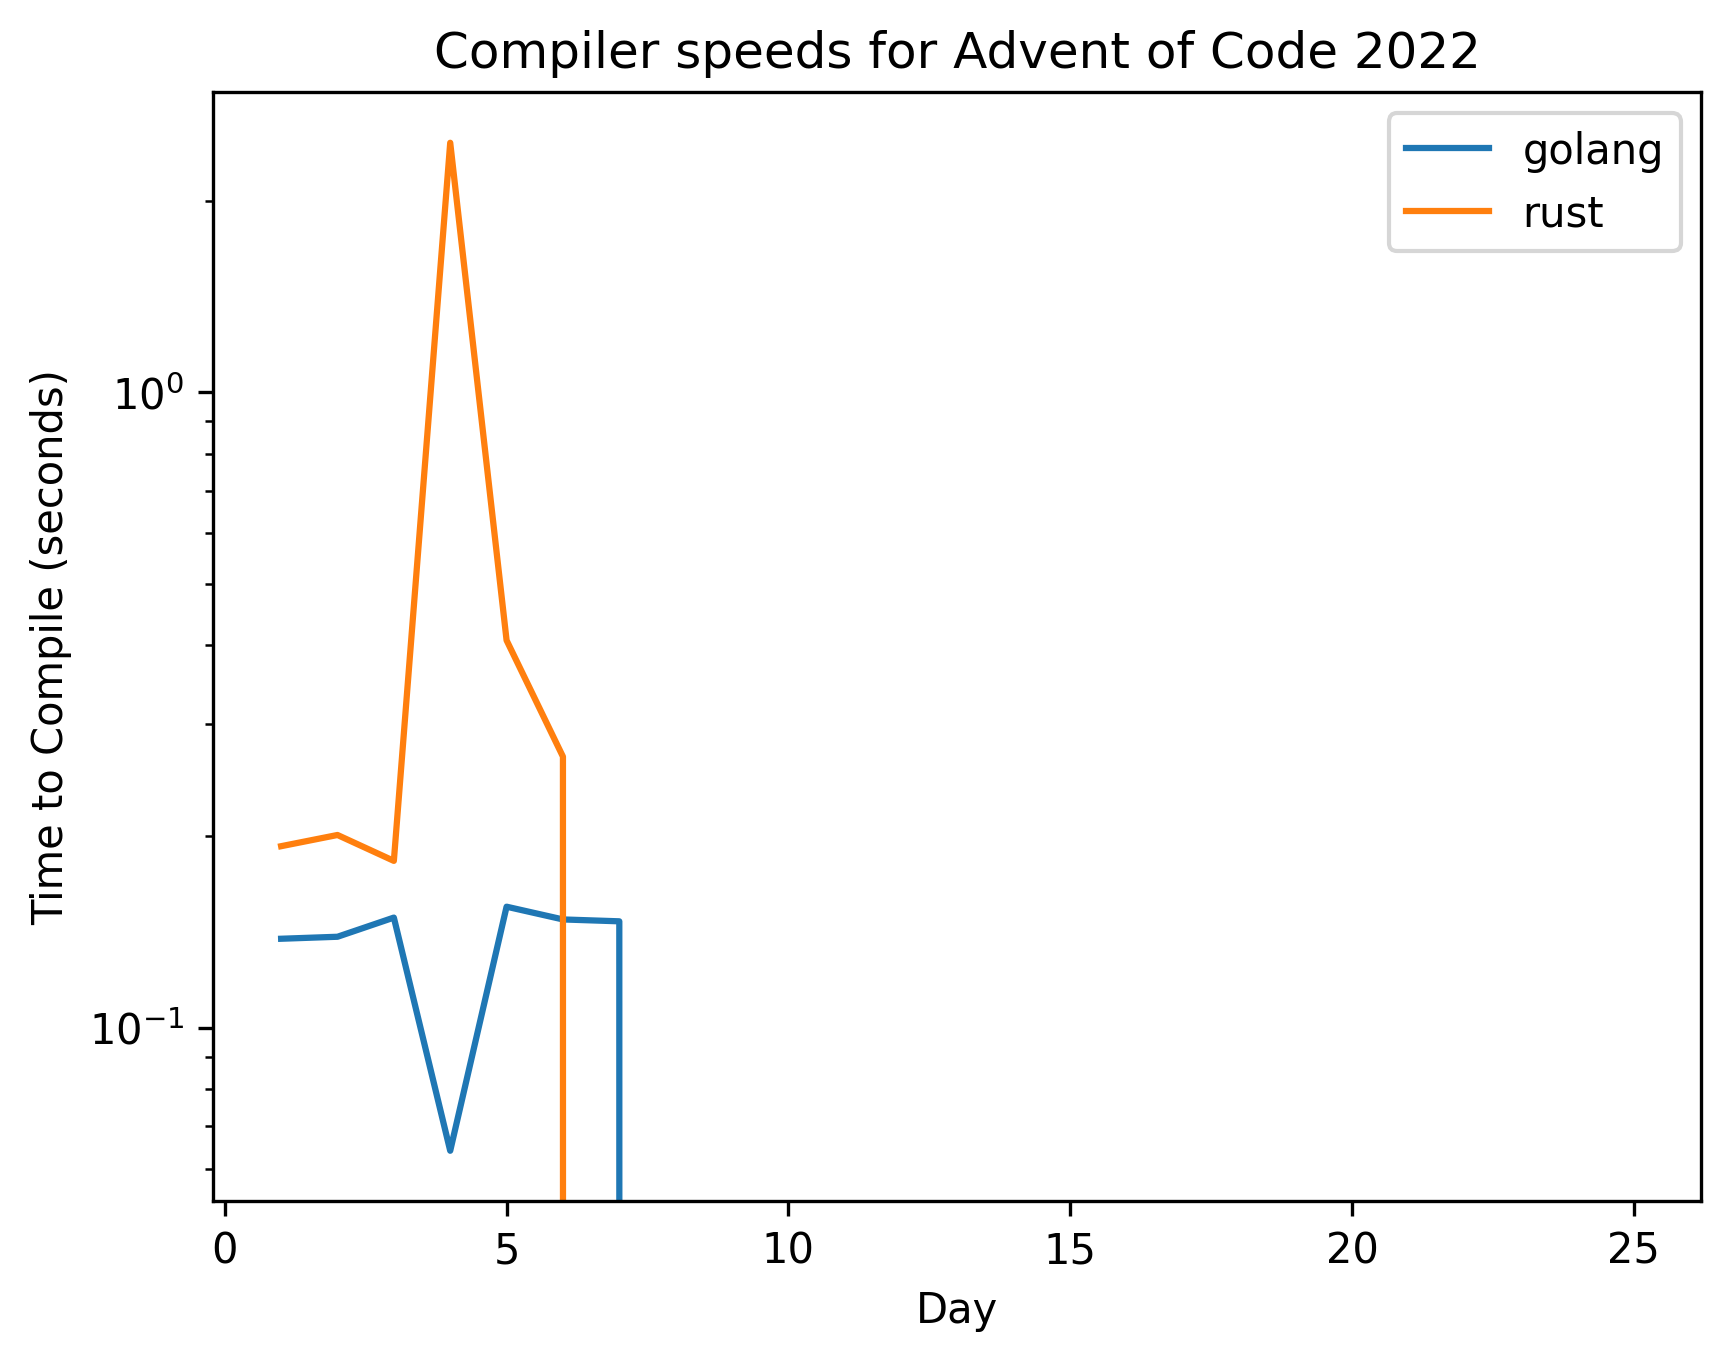
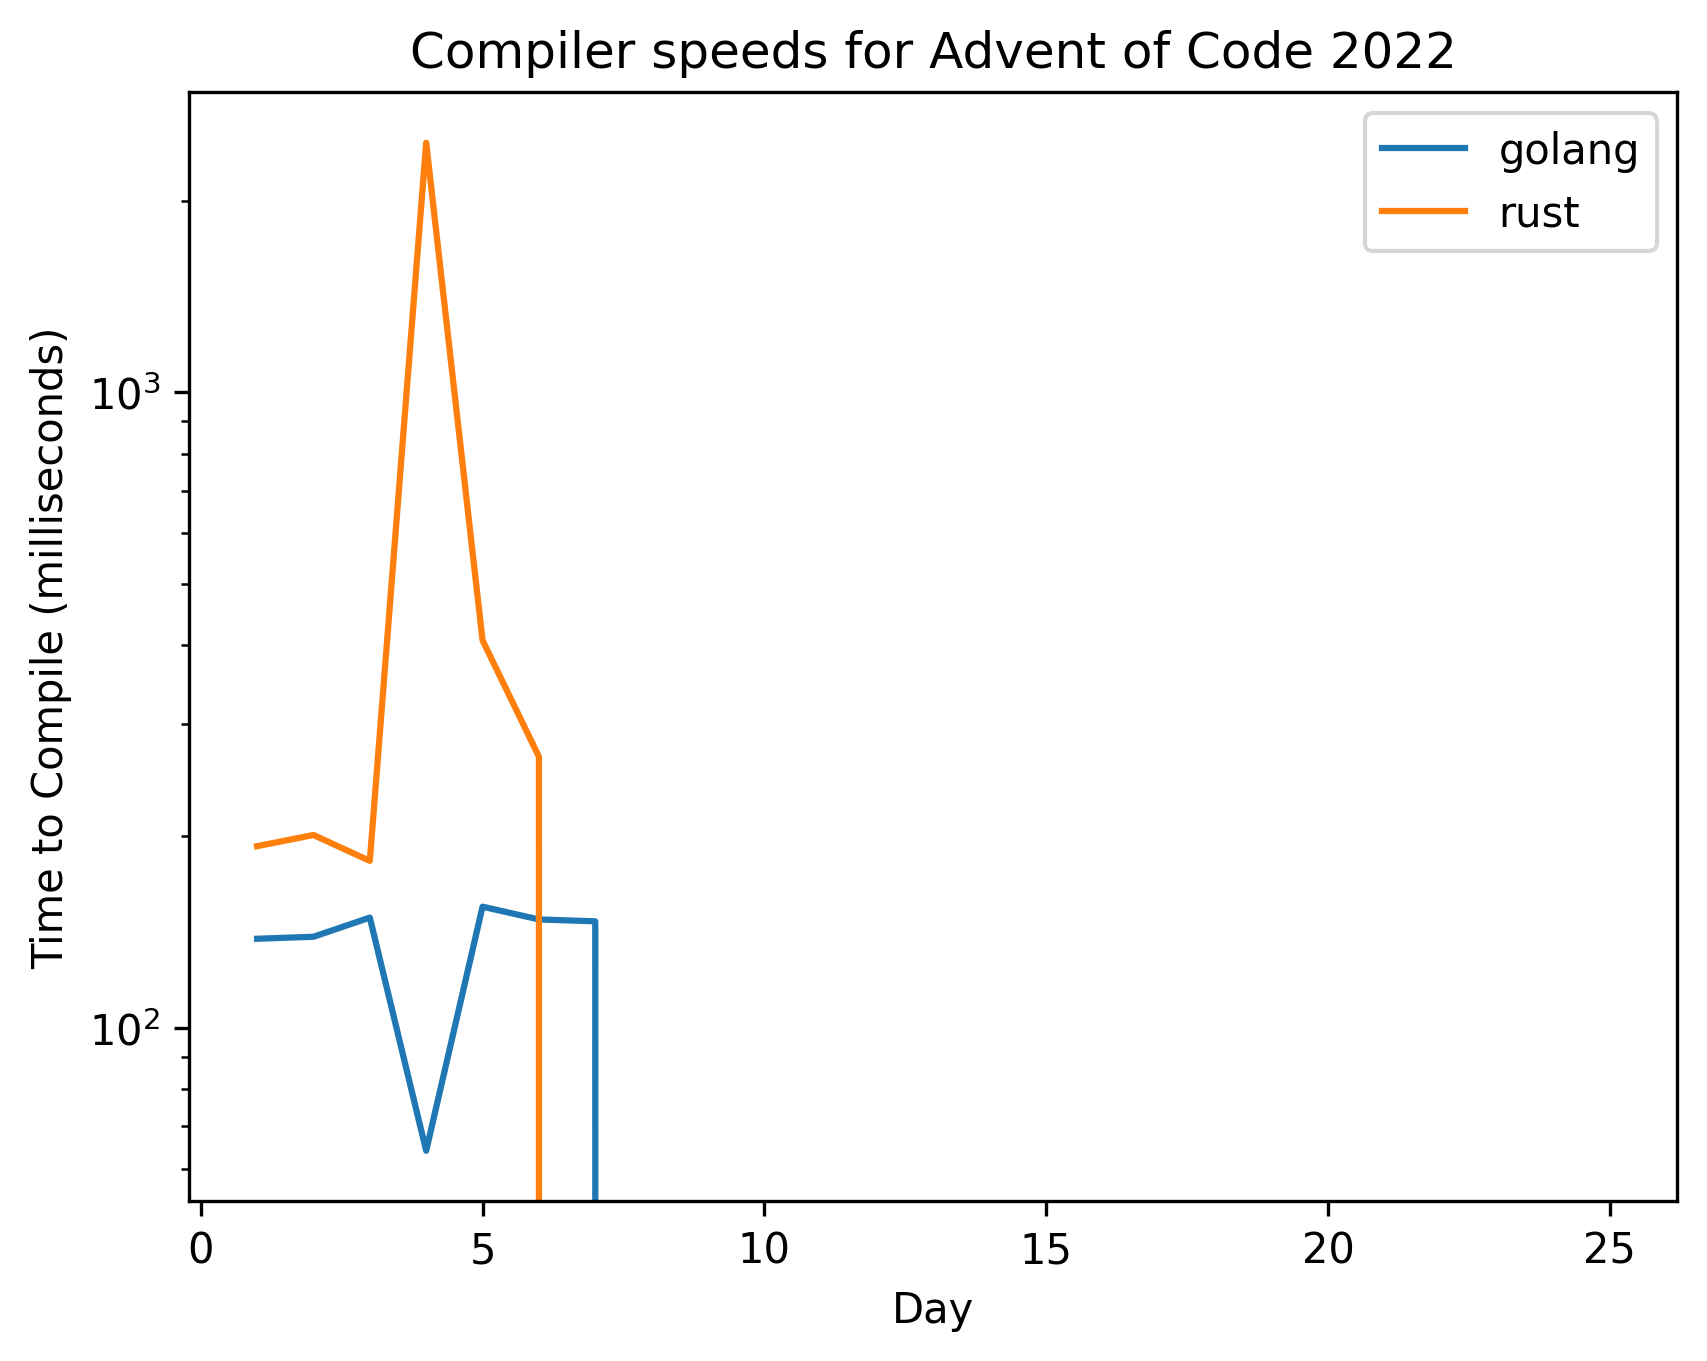
py day 14 done

diff --git a/2022/python/14.py b/2022/python/14.py
@@ -1,0 +1,100 @@
+# sand initiates at 500,0
+# one sand falls at a time, and 2nd sand doesn't start falling until the previous has hit it's resting place
+# if blocked, it tries down+left. If that's blocked, it tries down+right. It continues to move until it no longer can
+# using the puzzle input, how many units fall before the flow becomes an infinite loop?
+
+import numpy as np
+
+input = open("../data/14.txt").read().split("\n")
+caveMap = np.zeros((200, 800), dtype=int)
+
+# fill the caveMap in with the stone from the puzzle input
+for line in input:
+  commands = line.split(" -> ")
+  lastPos = commands[0].split(",")
+  for c in commands[1:]:
+    x1, y1 = int(lastPos[0]), int(lastPos[1])
+    x2, y2 = int(c.split(",")[0]), int(c.split(",")[1])
+    # if true, then we're drawing along on the x axis
+    if abs(x1-x2) != 0:
+      x1, x2 = min(x1, x2), max(x1, x2)
+      caveMap[y1, x1:x2+1] = 1
+    else:
+      y1, y2 = min(y1, y2), max(y1, y2)
+      caveMap[y1:y2+1, x1] = 1
+    lastPos = c.split(",")
+
+# find the highest y corrdinate that has a value of 1
+ceiling = max(np.where(caveMap == 1)[0])+2
+# arbitrary number. If your answer equals this, increase the range until the answer stops changing
+for i in range(810):
+  currPos = [1, 500]
+  # yes I know this isn't best practice, but the numpy array has a limited size and there's a guaranteed break point
+  while True:
+
+    # if not already blocked, move down as far as possible
+    if caveMap[currPos[0]+1, currPos[1]] == 0 and currPos[0] < ceiling:
+      # Extremely inefficient, TODO speed this up
+      currPos[0] += 1
+
+    # try to move down+left
+    elif caveMap[currPos[0]+1, currPos[1]-1] == 0 and currPos[0] < ceiling:
+      currPos[0], currPos[1] = currPos[0]+1, currPos[1]-1
+
+    # try to move down+right
+    elif caveMap[currPos[0]+1, currPos[1]+1] == 0 and currPos[0] < ceiling:
+      currPos[0], currPos[1] = currPos[0]+1, currPos[1]+1
+      
+    # if you get here *and* you're blocked, you've hit your resting place. Update the caveMap with currPos and break the whileTrue        
+    elif currPos[0] < ceiling: 
+      caveMap[currPos[0], currPos[1]] = 2
+      break
+
+    # these never get blocked. It's in freefall, so you need to break the for loop here
+    else:
+      break
+
+# part 1 answer
+print(np.sum(caveMap == 2))
+
+
+########################## part 2 version, running separately to keep it cleaner ############################
+
+# remove the rocks from part 1
+caveMap[np.where(caveMap == 2)] = 0
+
+# find the highest y corrdinate that has a value of 1, and set the values of the whole row 2 above it to 1
+ceiling = max(np.where(caveMap == 1)[0])+2
+caveMap[ceiling, :] = 1
+# I used this number to go back and reduce the size of the numpy array
+#print(ceiling)
+
+# arbitrary number. If your answer equals this, increase the range until the answer stops changing
+for i in range(27000):
+  currPos = [0, 500]
+  # yes I know this isn't best practice, but the numpy array has a limited size and there's a guaranteed break point
+  while True:
+
+    # if not already blocked, move down as far as possible
+    if caveMap[currPos[0]+1, currPos[1]] == 0 and currPos[0] < ceiling:
+      # Extremely inefficient, TODO speed this up by identifying the landing point instead of going 1 at a time
+      currPos[0] += 1
+
+    # try to move down+left
+    elif caveMap[currPos[0]+1, currPos[1]-1] == 0 and currPos[0] < ceiling:
+      currPos[0], currPos[1] = currPos[0]+1, currPos[1]-1
+
+    # try to move down+right
+    elif caveMap[currPos[0]+1, currPos[1]+1] == 0 and currPos[0] < ceiling:
+      currPos[0], currPos[1] = currPos[0]+1, currPos[1]+1
+      
+    # if you get here *and* you're blocked, you've hit your resting place. Update the caveMap with currPos and break the whileTrue        
+    else:
+      caveMap[currPos[0], currPos[1]] = 2
+      break
+
+# visual test when using the sample data
+#print(caveMap[0:13, 490:508])
+
+# part 2 answer
+print(np.sum(caveMap == 2))

diff --git a/2022/python/statBuilder.py b/2022/python/statBuilder.py
@@ -10,8 +10,8 @@ def buildGraphs(year: int):
   df['go'] = df['go'].astype(float)*1000
   df['rust'] = df['rust'].astype(float)*1000
   df['python'] = df['python'].astype(float)*1000
-  df['goCompile'] = df['goCompile'].astype(float)
-  df['rustCompile'] = df['rustCompile'].astype(float)
+  df['goCompile'] = df['goCompile'].astype(float)*1000
+  df['rustCompile'] = df['rustCompile'].astype(float)*1000
 
   # speeds graph
   plt.figure(dpi = 300)
@@ -49,7 +49,7 @@ def buildGraphs(year: int):
   plt.plot(df['day'], df['rustCompile'], label='rust')
   plt.title("Compiler speeds for Advent of Code 2022")
   plt.xlabel('Day')
-  plt.ylabel('Time to Compile (seconds)')
+  plt.ylabel('Time to Compile (milliseconds)')
   plt.legend()
   plt.savefig(f"../{year}_compilerSpeed.png", bbox_inches='tight')
 

diff --git a/2022/README.md b/2022/README.md
@@ -62,4 +62,5 @@ Day 12: shortest path through maze
 Day 13: if/and/or logic with recursion and edge cases
 - I worked with a few packages but ended up sticking with the vanilla option. ast, itertools, etc seemed to have useful tools but none of them were quite right. After I wrote the main logic block, the summation required me to go back to the beginning and turn the input data from a list to a dictionary.
 ***
-Day 14: 
+Day 14: simple physical simulation, numpy array manipulation
+- I'm not exactly proud of this Python implementation. It's very slow and inefficient, but it works. And for this use case, 3-4 seconds isn't a huge deal in terms of speed. I'm going to enjoy coming back with the compiled languages and making a much faster solution with them
